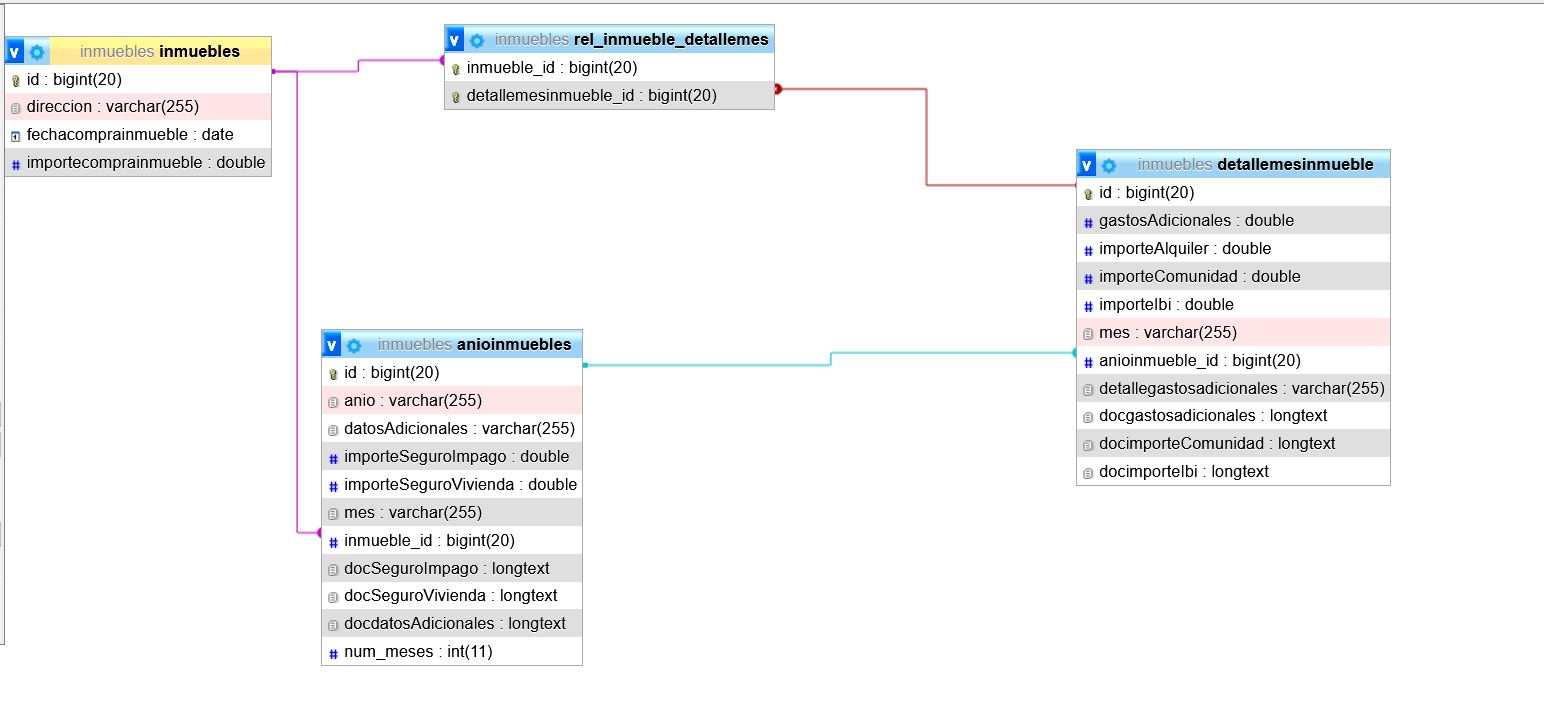
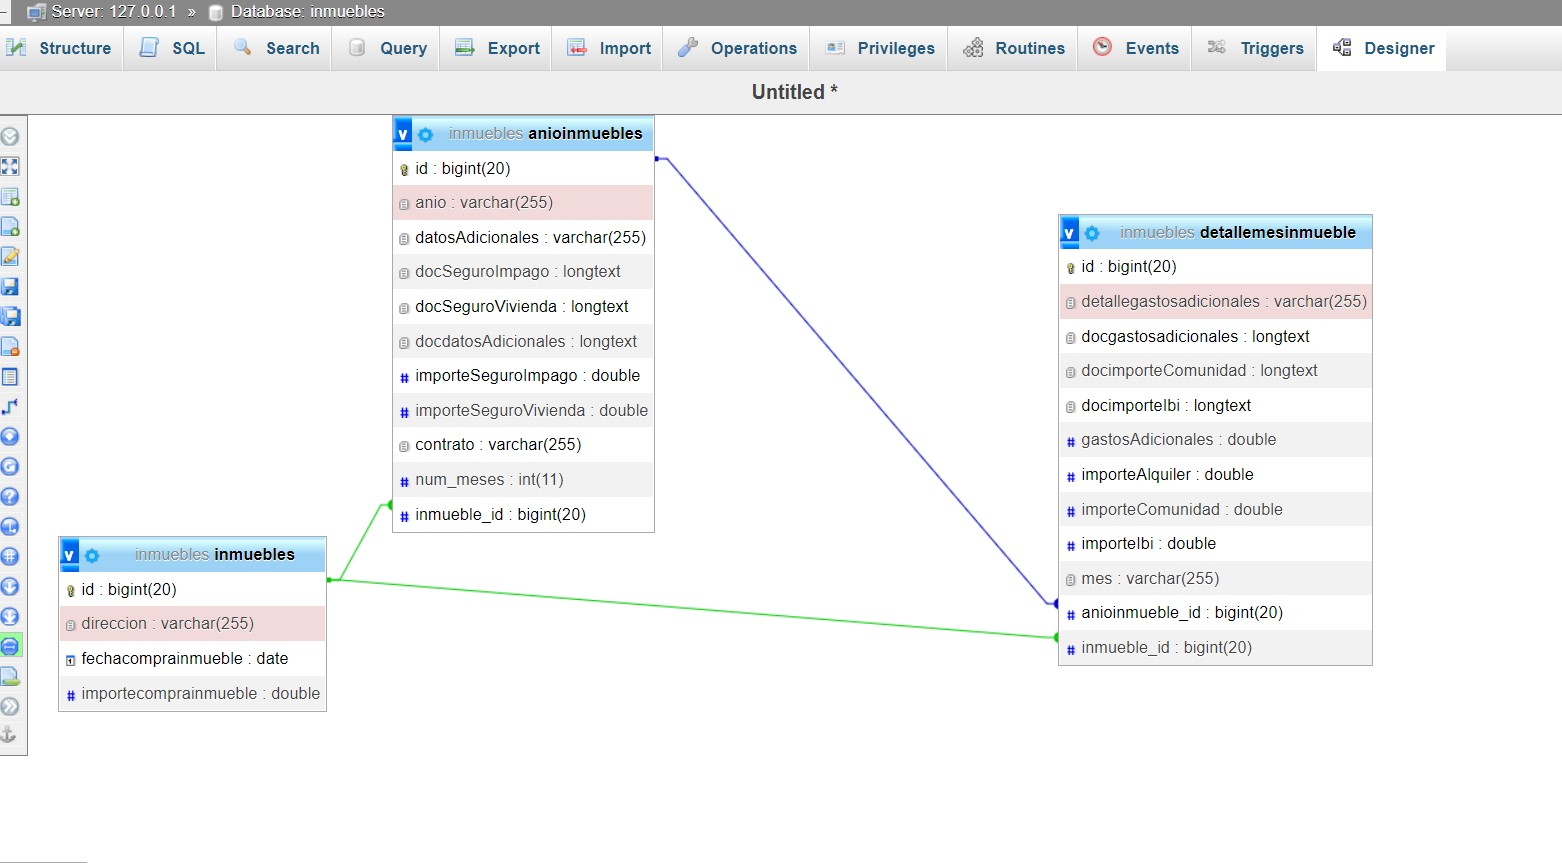
mi., 15 de jun. de 2022 16:25:35 2022-06-15 MODIFICADO MODELO DATOS

Changed region(s): [[0.0, 0.0, 1.0, 0.9283], [0.4974, 0.1857, 0.9016, 0.7736], [0.0, 0.9902, 0.0622, 1.0]]

diff --git a/Inmuebles/src/main/java/com/jgr/inmuebles/controller/InmueblesController.java b/Inmuebles/src/main/java/com/jgr/inmuebles/controller/InmueblesController.java
@@ -41,112 +41,6 @@ public class InmueblesController {
 	@Autowired
 	private IinmuebleService inmuebleService;
 
-	// @PostConstruct
-	public void cargaInicial1() {
-
-		Inmueble casa = new Inmueble();
-		AnioInmueble aniocasa = new AnioInmueble();
-		DetalleMesInmueble detallecasa = new DetalleMesInmueble();
-
-		List<Inmueble> inmuebles = new ArrayList<Inmueble>();
-		List<AnioInmueble> anios = new ArrayList<AnioInmueble>();
-		List<DetalleMesInmueble> detalles = new ArrayList<DetalleMesInmueble>();
-
-		java.util.Date dt = new java.util.Date();
-
-		casa.setDireccion("direccion");
-		casa.setFechacomprainmueble(dt);
-		casa.setImportecomprainmueble(1000);
-
-		// inmuebleService.save(casa);
-
-		// if(inmuebleService.findById(casa.getId())!=null) {
-		aniocasa = new AnioInmueble();
-		int anio = 2007;
-		for (int i = 0; i < 2; i++) {
-			aniocasa.setAnio(String.valueOf(anio + i));
-			aniocasa.setDocdatosAdicionales("DocdatosAdicionales" + i);
-			aniocasa.setDocSeguroImpago("setDocSeguroImpago" + i);
-			aniocasa.setDocSeguroVivienda("setDocSeguroVivienda" + i);
-			aniocasa.setImporteSeguroImpago(i);
-			aniocasa.setImporteSeguroVivienda(i);
-			aniocasa.setMes("MES" + i);
-			aniocasa.setNum_meses(i);
-			aniocasa.setInmueble(casa);
-
-			for (int j = 0; j < 2; j++) {
-				detallecasa = new DetalleMesInmueble();
-				detallecasa.setAnioinmueble(aniocasa);
-				detallecasa.setMes("mes" + j);
-				detallecasa.setDetallegastosadicionales("setDetallegastosadicionales" + i);
-				detallecasa.setDocgastosadicionales("setDocgastosadicionales" + i);
-				detallecasa.setDocimporteComunidad("setDocimporteComunidad" + i);
-				detallecasa.setDocimporteIbi("setDocimporteIbi" + i);
-				detallecasa.setImporteAlquiler(i + j * 2);
-				detallecasa.setImporteComunidad(i + j * 3);
-				detallecasa.setImporteIbi(i + j * 4);
-				detallecasa.setInmueble(casa);
-				detalles.add(detallecasa);
-
-				// detalleMesInmuebleService.save(detallecasa);
-
-			}
-
-			aniocasa.setaddDetallemesinmueble(detallecasa);
-
-			anios.add(aniocasa);
-
-			// anioInmuebleService.save(aniocasa);
-
-			// }
-
-		}
-		Set<AnioInmueble> aniosSet = new HashSet<AnioInmueble>(anios);
-
-		Set<DetalleMesInmueble> detallesSet = new HashSet<DetalleMesInmueble>(detalles);
-
-		casa.setAnioinmueble(aniosSet);
-		casa.setInmuebledetallemes(detallesSet);
-
-		inmuebleService.save(casa);
-
-	}
-
-	@PostConstruct
-	public void verDatos1() {
-
-		for (Inmueble casa : inmuebleService.findAll()) {
-
-			System.out.println("casa->" + casa.getDireccion());
-
-			for (AnioInmueble anio : casa.getAnioinmueble()) {
-
-				System.out.println("anio->" + anio.getAnio());
-
-				for (DetalleMesInmueble detalle : anio.getDetallemesinmueble()) {
-
-					System.out.println("detalle->" + detalle.getMes());
-					System.out.println("detalle->" + detalle.getInmueble());
-
-				}
-
-			}
-
-			for (DetalleMesInmueble detalle : casa.getInmuebledetallemes()) {
-
-				System.out.println("DetalleCasa->" + detalle.getInmueble().getDireccion());
-
-				for (AnioInmueble anio : detalle.getInmueble().getAnioinmueble()) {
-					System.out.println("DetalleInmueble->" + anio.getAnio());
-
-				}
-
-			}
-
-		}
-
-	}
-	
 	
 
 	@GetMapping(value = { "/listarinmuebles","/" })

diff --git a/Inmuebles/src/main/java/com/jgr/inmuebles/models/entity/AnioInmueble.java b/Inmuebles/src/main/java/com/jgr/inmuebles/models/entity/AnioInmueble.java
@@ -21,7 +21,6 @@ import javax.validation.constraints.NotNull;
 
 
 
-
 @Entity
 @Table(name = "anioinmuebles")
 public class AnioInmueble {
@@ -37,9 +36,10 @@ public class AnioInmueble {
 	//@NotEmpty
 	private String anio;
 	
-	@Column(name = "mes")
+	@Column(name = "contrato")
+	@Lob
 //	@NotEmpty
-	private String mes;
+	private String contrato;
 	
 	@Column(name = "importeSeguroVivienda")
 	//@NotNull
@@ -78,11 +78,11 @@ public class AnioInmueble {
 	
 	//relacion con detallemes
 	@OneToMany(cascade = CascadeType.PERSIST, mappedBy = "anioinmueble", fetch = FetchType.LAZY)
-	private Set <DetalleMesInmueble> detallemesinmueble;
+	private Set <DetalleMesInmueble> detallesmes;
 
 		
 	public AnioInmueble() {
-		this.detallemesinmueble = new HashSet<>();
+		this.detallesmes = new HashSet<>();
 	}
 
 	public Long getId() {
@@ -101,12 +101,12 @@ public class AnioInmueble {
 		this.anio = anio;
 	}
 
-	public String getMes() {
-		return mes;
+	public String getContrato() {
+		return contrato;
 	}
 
-	public void setMes(String mes) {
-		this.mes = mes;
+	public void setContrato(String contrato) {
+		this.contrato = contrato;
 	}
 
 	public double getImporteSeguroVivienda() {
@@ -174,26 +174,43 @@ public class AnioInmueble {
 	}
 
 	public Set<DetalleMesInmueble> getDetallemesinmueble() {
-		return detallemesinmueble;
+		return detallesmes;
 	}
 
-	public void setDetallemesinmueble(Set<DetalleMesInmueble> detallemesinmueble) {
-		this.detallemesinmueble = detallemesinmueble;
+	public void setDetallemesinmueble(Set<DetalleMesInmueble> detallesmes) {
+		/*
+		//relacionamos detallemesinmueble con el año
+		detallemesinmueble.forEach(d->{
+			this.addDetallemesinmueble(d);
+		});
+		*/
+		
+		detallesmes.forEach(this::addDetallemesinmueble);
+		//this.detallemesinmueble = detallemesinmueble;
 	}
 	
-	public void setaddDetallemesinmueble(DetalleMesInmueble detallemesinmueble) {
-		this.detallemesinmueble.add(detallemesinmueble);
+	public void addDetallemesinmueble(DetalleMesInmueble detallemesinmueble) {
+		detallemesinmueble.setAnioinmueble(this);
+		this.detallesmes.add(detallemesinmueble);
+	}
+	
+	public void removeDetallemesinmueble(DetalleMesInmueble detallemesinmueble) {
+		this.detallesmes.remove(detallemesinmueble);
+		
 	}
 
+	
 	@Override
-	public String toString() {
-		return "AnioInmueble [id=" + id + ", anio=" + anio + ", mes=" + mes + ", importeSeguroVivienda="
-				+ importeSeguroVivienda + ", importeSeguroImpago=" + importeSeguroImpago + ", docSeguroVivienda="
-				+ docSeguroVivienda + ", docSeguroImpago=" + docSeguroImpago + ", datosAdicionales=" + datosAdicionales
-				+ ", docdatosAdicionales=" + docdatosAdicionales + ", num_meses=" + num_meses + "]";
+	public boolean equals(Object obj) {
+		if (this == obj) {
+			return true;
+		}
+		if (!(obj instanceof AnioInmueble)) {
+			return false;
+		}
+		AnioInmueble other = (AnioInmueble) obj;
+		return this.id!=null && this.id.equals(other.getId());
 	}
-
-	
 	
 	
 	

diff --git a/Inmuebles/src/main/java/com/jgr/inmuebles/models/entity/Inmueble.java b/Inmuebles/src/main/java/com/jgr/inmuebles/models/entity/Inmueble.java
@@ -2,6 +2,7 @@ package com.jgr.inmuebles.models.entity;
 
 import java.util.Date;
 import java.util.HashSet;
+import java.util.Objects;
 import java.util.Set;
 
 import javax.persistence.CascadeType;
@@ -49,15 +50,11 @@ public class Inmueble {
 	
 	//1inmueble-nanios
 	@OneToMany(cascade = CascadeType.PERSIST, mappedBy = "inmueble", fetch = FetchType.LAZY)
-	private Set <AnioInmueble> anioInmueble;
-
-	
-	@OneToMany(mappedBy="inmueble",cascade = CascadeType.PERSIST,fetch = FetchType.LAZY)
-	private Set<DetalleMesInmueble> inmuebleDetalleMes;
+	private Set <AnioInmueble> anios;
 
 	public Inmueble() {
-		anioInmueble = new HashSet<>();
-		inmuebleDetalleMes = new HashSet<>();
+		anios = new HashSet<>();
+		
 	}
 
 
@@ -66,9 +63,11 @@ public class Inmueble {
 	}
 
 
+
 	public void setId(Long id) {
 		this.id = id;
 	}
+
 
 
 	public String getDireccion() {
@@ -76,9 +75,11 @@ public class Inmueble {
 	}
 
 
+
 	public void setDireccion(String direccion) {
 		this.direccion = direccion;
 	}
+
 
 
 	public Date getFechacomprainmueble() {
@@ -86,9 +87,11 @@ public class Inmueble {
 	}
 
 
+
 	public void setFechacomprainmueble(Date fechacomprainmueble) {
 		this.fechacomprainmueble = fechacomprainmueble;
 	}
+
 
 
 	public double getImportecomprainmueble() {
@@ -96,49 +99,48 @@ public class Inmueble {
 	}
 
 
+
 	public void setImportecomprainmueble(double importecomprainmueble) {
 		this.importecomprainmueble = importecomprainmueble;
 	}
 
-
-	public Set<AnioInmueble> getAnioinmueble() {
-		return anioInmueble;
+	public Set<AnioInmueble> getAnios() {
+		return anios;
 	}
 
 
-	public void setAnioinmueble(Set<AnioInmueble> anioinmueble) {
-		this.anioInmueble = anioinmueble;
+	public void setAnios(Set<AnioInmueble> anios) {
+		this.anios.clear();
+		anios.forEach(this::addAnio);
+		
 	}
-	
-	public void setaddAnioinmueble(AnioInmueble anioinmueble) {
-		this.anioInmueble.add(anioinmueble);
-	}
-	
 
-
-	public Set<DetalleMesInmueble> getInmuebledetallemes() {
-		return inmuebleDetalleMes;
+	public void addAnio(AnioInmueble anio) {
+		this.anios.add(anio);
+		anio.setInmueble(this);
+		
 	}
 	
-	
-	public void setInmuebledetallemes(Set<DetalleMesInmueble> inmuebledetallemes) {
-		this.inmuebleDetalleMes = inmuebledetallemes;
+	public void removeAnio(AnioInmueble anio) {
+		this.anios.remove(anio);		
+		
 	}
 
-	public void addInmuebledetallemes(DetalleMesInmueble inmuebledetallemes) {
-		this.inmuebleDetalleMes.add(inmuebledetallemes);
-	}
 
 
 	@Override
-	public String toString() {
-		return "Inmueble [id=" + id + ", direccion=" + direccion + ", fechacomprainmueble=" + fechacomprainmueble
-				+ ", importecomprainmueble=" + importecomprainmueble + "]";
+	public boolean equals(Object obj) {
+		if (this == obj) {
+			return true;
+		}
+		if (!(obj instanceof Inmueble)) {
+			return false;
+		}
+		Inmueble other = (Inmueble) obj;
+		return this.id!=null && this.id.equals(other.getId());
 	}
-
-
 	
 	
-
+	
 	
 }

diff --git a/Inmuebles/src/main/java/com/jgr/inmuebles/models/entity/DetalleMesInmueble.java b/Inmuebles/src/main/java/com/jgr/inmuebles/models/entity/DetalleMesInmueble.java
@@ -79,8 +79,6 @@ public class DetalleMesInmueble {
 	@JoinColumn(name="inmueble_id")
 	private Inmueble inmueble;
 
-
-
 	public Long getId() {
 		return id;
 	}
@@ -225,17 +223,16 @@ public class DetalleMesInmueble {
 
 
 	@Override
-	public String toString() {
-		return "DetalleMesInmueble [id=" + id + ", mes=" + mes + ", importeAlquiler=" + importeAlquiler
-				+ ", importeComunidad=" + importeComunidad + ", docimporteComunidad=" + docimporteComunidad
-				+ ", importeIbi=" + importeIbi + ", docimporteIbi=" + docimporteIbi + ", gastosAdicionales="
-				+ gastosAdicionales + ", detallegastosadicionales=" + detallegastosadicionales
-				+ ", docgastosadicionales=" + docgastosadicionales + "]";
+	public boolean equals(Object obj) {
+		if (this == obj) {
+			return true;
+		}
+		if (!(obj instanceof DetalleMesInmueble)) {
+			return false;
+		}
+		DetalleMesInmueble other = (DetalleMesInmueble) obj;
+		return this.id!=null && this.id.equals(other.getId());
 	}
-
-
-
-	
 	
 
 }
